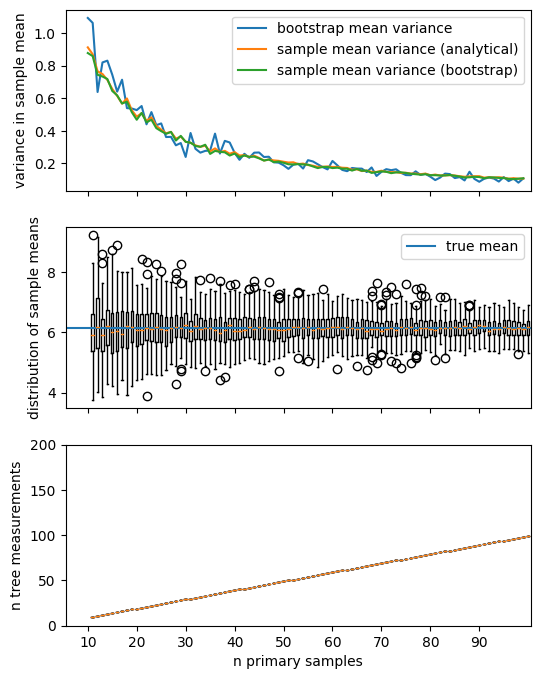
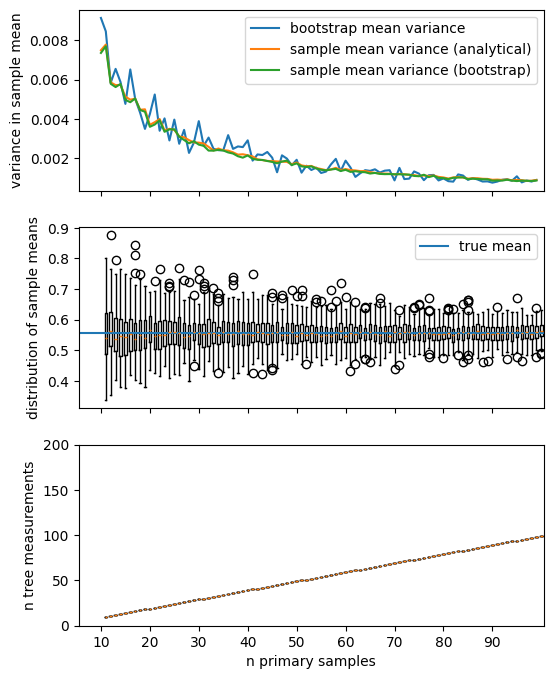
readin actual data

diff --git a/code/test_run_fakedata.py b/code/test_run_fakedata.py
@@ -5,54 +5,26 @@ import matplotlib.pyplot as plt
 from tqdm import tqdm
 from pyproj import Transformer
 
-from make_data import get_random_tree_locs, get_tree_bm, record_noisy_gps_locs_unif
+from make_data import get_random_tree_locs, get_tree_bm, record_noisy_gps_locs_gaus
 from sample import SRS, PPSWR_SRS
 from inclusion_prob import GPS_ERROR_VARIANCE, MEASUREMENT_RADIUS
 from inclusion_prob import get_distance_matrix, get_rough_inclusion_probs
 from stats import get_bootsrapped_results, plot_bootstrapped_results
 
-# %%
-# READ IN ACTUAL DATA
-treedf = pd.read_csv('../data/wt_kentland_data.csv', header=0)
-cluster_loc_lat = treedf.lat.values
-cluster_loc_lon = treedf.lon.values
-tree_bm = treedf.biomass_TCO2e.values
+# GENERATE DATA AND VISUALIZE
+N = 200
+tree_locs = get_random_tree_locs(n_trees=N)
+tree_bm = get_tree_bm(tree_locs)
+cluster_locs = record_noisy_gps_locs_gaus(tree_locs, GPS_ERROR_VARIANCE)
 
-def latlon_to_utm(lat, lon):
-    # Define the projection for WGS84 (used for GPS coordinates)
-    wgs84_crs = 'EPSG:4326'
-    
-    # Define the UTM zone based on the longitude
-    utm_zone = (((lon[0] + 180) / 6) + 1).astype(int)
-    # Northern Hemisphere has positive latitudes, hence 'north=True'
-    # For Southern Hemisphere use 'north=False'
-    north = lat[0] >= 0
-    utm_crs = f'EPSG:{32600 + utm_zone if north else 32700 + utm_zone}'
-    
-    # Create a Transformer object for converting WGS84 to UTM
-    transformer = Transformer.from_crs(wgs84_crs, utm_crs)
-    
-    # Transform the latitude and longitude to UTM coordinates
-    utm_x, utm_y = transformer.transform(lat, lon)
-    
-    return utm_x, utm_y
-
-
-cluster_loc_x, cluster_loc_y = latlon_to_utm(cluster_loc_lat, cluster_loc_lon)
-cluster_locs = np.array([cluster_loc_x, cluster_loc_y]).T
-tree_locs = record_noisy_gps_locs_unif(cluster_locs, radius=5)
-
-
-plt.scatter(x=tree_locs[:,0], y=tree_locs[:,1], alpha=0.75, s=tree_bm*50, label='true tree location (and size)')
+plt.scatter(x=tree_locs[:,0], y=tree_locs[:,1], alpha=0.75, s=tree_bm*8, label='true tree location (and size)')
 plt.scatter(x=cluster_locs[:,0], y=cluster_locs[:,1], alpha=0.5, s=8, label='noisy GPS tree location')
 plt.legend()
 plt.title('Tree and cluster locations')
 plt.show()
 
-# %%
 # CALCULATE INCLUSION PROBABILITIES AND SCALED VALUES
 # get inclusion probabilities
-N = len(tree_locs)
 inc_probs = get_rough_inclusion_probs(cluster_locs, eps=1e-1)
 # calculate expected value of cluster size (UNNORMALIZED)
 EN = inc_probs.sum(0)
@@ -73,9 +45,8 @@ plot_bootstrapped_results(true_mean=tree_bm.mean(), results=srs_results,
 ppswr_srswr = PPSWR_SRS(
     sunits_scaled=Z, sunit_locs=tree_locs, 
     punit_weights=EN/EM, punit_locs=cluster_locs, 
-    gps_error_type='unif',
-    gps_error=5, 
-    measurement_rad=10, 
+    gps_error_var=GPS_ERROR_VARIANCE, 
+    measurement_rad=MEASUREMENT_RADIUS, 
     replace=True, n_bootstraps=50)
 
 ppswr_srswr_results = get_bootsrapped_results(ppswr_srswr, n_min=10, ns=90, n_repeats=100)
@@ -87,9 +58,8 @@ plot_bootstrapped_results(true_mean=tree_bm.mean(), results=ppswr_srswr_results,
 ppswr_srswor = PPSWR_SRS(
     sunits_scaled=Z, sunit_locs=tree_locs, 
     punit_weights=EN/EM, punit_locs=cluster_locs, 
-    gps_error_type='unif',
-    gps_error=5,
-    measurement_rad=5, 
+    gps_error_var=GPS_ERROR_VARIANCE, 
+    measurement_rad=MEASUREMENT_RADIUS, 
     replace=False, n_bootstraps=50)
 
 ppswr_srswor_results = get_bootsrapped_results(ppswr_srswor, n_min=10, ns=90, n_repeats=100)

diff --git a/code/sample.py b/code/sample.py
@@ -1,7 +1,7 @@
 import numpy as np
 
 from inclusion_prob import get_distance_matrix
-from make_data import record_noisy_gps_locs
+from make_data import record_noisy_gps_locs_gaus, record_noisy_gps_locs_unif
 
 class Sample:
     def __init__(self, units:np.array, n_bootstraps=None):
@@ -62,12 +62,13 @@ class SRS(Sample):
         
 class PPSWR_SRS(Sample):
     def __init__(self, sunits_scaled, sunit_locs, punit_weights, punit_locs, 
-                 gps_error_var, measurement_rad, replace=True, n_bootstraps=None):
+                 gps_error_type, gps_error, measurement_rad, replace=True, n_bootstraps=None):
         super().__init__(sunits_scaled, n_bootstraps)
         self.punit_weights = punit_weights # weights for pps
         self.punit_locs = punit_locs # noisy gps locations
         self.sunit_locs = sunit_locs # true tree locations
-        self.gps_error_var = gps_error_var
+        self.gps_error_type = gps_error_type
+        self.gps_error = gps_error
         self.measurement_rad = measurement_rad
         self.replace = replace
 
@@ -81,8 +82,15 @@ class PPSWR_SRS(Sample):
         # FIRST STAGE (ppswr) -- get primary unit indices
         self.punit_idx_samples = np.random.choice(
             self.N, size=self.k, replace=True, p=self.punit_weights)
-        punit_measurement_locs = record_noisy_gps_locs(
-            self.punit_locs[self.punit_idx_samples], self.gps_error_var)
+        if self.gps_error_type == 'gaus':
+            punit_measurement_locs = record_noisy_gps_locs_gaus(
+                self.punit_locs[self.punit_idx_samples], self.gps_error)
+        elif self.gps_error_type == 'unif':
+            punit_measurement_locs = record_noisy_gps_locs_gaus(
+                self.punit_locs[self.punit_idx_samples], self.gps_error)
+        else:
+            print(f'GPS error type must be one of [gaus, unif], you provided {self.gps_error_type}')
+            return
         # loop first-stage units to get second stage units
         self.sunit_idx_samples = []
         for i in range(self.k):

diff --git a/code/make_data.py b/code/make_data.py
@@ -1,5 +1,6 @@
 import numpy as np
 
+
 # GENERATE TREE LOCATIONS FROM A MIXTURE OF GAUSSIANS
 # use mixture to simulate clustering/bunching of trees
 def get_random_tree_locs(n_trees, n_groups=10, std_scale=0.5):
@@ -32,8 +33,18 @@ def get_tree_bm(tree_locs, gamma_shape=3, gamma_scale=2, loc_corr=0.5, loc_corr_
     return tree_bm
 
 # RECORD NOISY LOCATIONS (THESE BECOME OUR CLUSTER AND DEPLOYED MEASUREMENT LOCATIONS)
-def record_noisy_gps_locs(tree_locs, gps_noise):
+def record_noisy_gps_locs_gaus(tree_locs, gps_noise):
     cluster_locs = np.zeros(tree_locs.shape)
     for i, tree in enumerate(tree_locs):
         cluster_locs[i] = np.random.multivariate_normal(mean=tree, cov=np.identity(2)*gps_noise)
+    return cluster_locs
+
+def record_noisy_gps_locs_unif(tree_locs, radius):
+    cluster_locs = np.zeros(tree_locs.shape)
+    r = radius * np.sqrt(np.random.uniform(0, 1, size=len(tree_locs)))
+    theta = 2 * np.pi * np.random.uniform(0, 1, size=len(tree_locs))
+
+    cluster_locs[:,0] = tree_locs[:,0] + r * np.cos(theta)
+    cluster_locs[:,1] = tree_locs[:,1] + r * np.sin(theta)
+
     return cluster_locs

diff --git a/code/inclusion_prob.py b/code/inclusion_prob.py
@@ -3,12 +3,12 @@ from scipy.integrate import nquad
 from tqdm import tqdm
 
 # Define parameters
-GPS_ERROR_VARIANCE = 0.0004
+GPS_ERROR_VARIANCE = 5
 MEASUREMENT_RADIUS = 0.1
 
 # Define the indicator function
 def indicator_function(xj, yj, xm, ym, R):
-    return ((xj - xm)**2 + (yj - ym)**22 <= R**2)
+    return ((xj - xm)**2 + (yj - ym)**2 <= R**2)
 
 def normal_distribution(x, mean, cov):
     k = len(x)
@@ -32,6 +32,7 @@ def inclusion_prob(loc_i, loc_j, cov, R, interval):
         ],
         )
     return result
+
 
 def get_inclusion_probs(locs, cov, R, interval=0.005, distance_threshold=100):
     N = len(locs)
